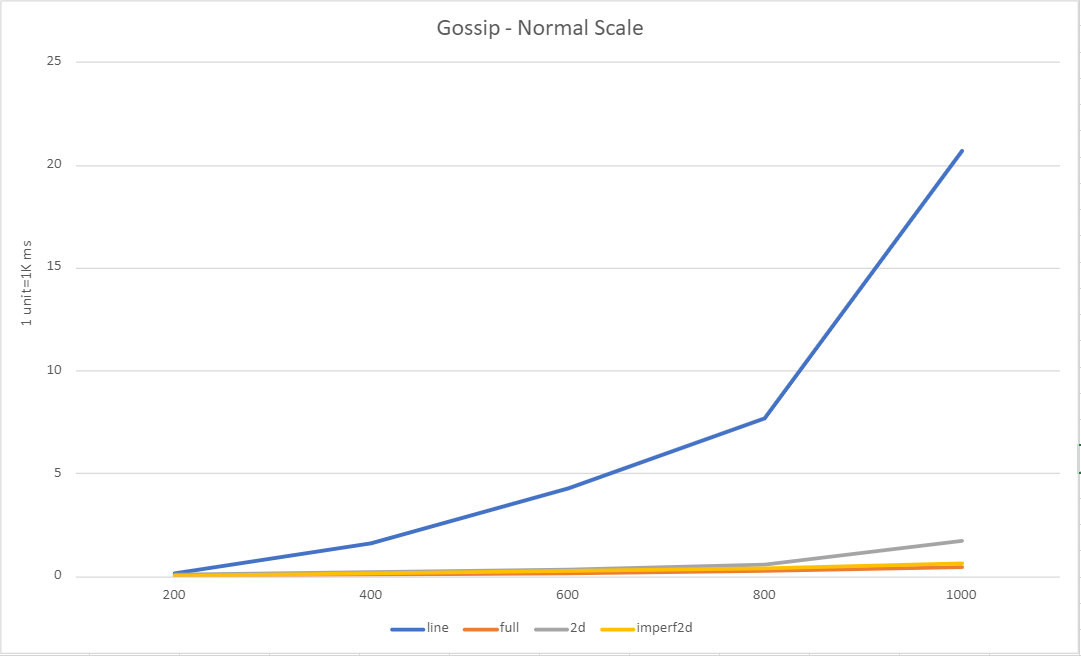
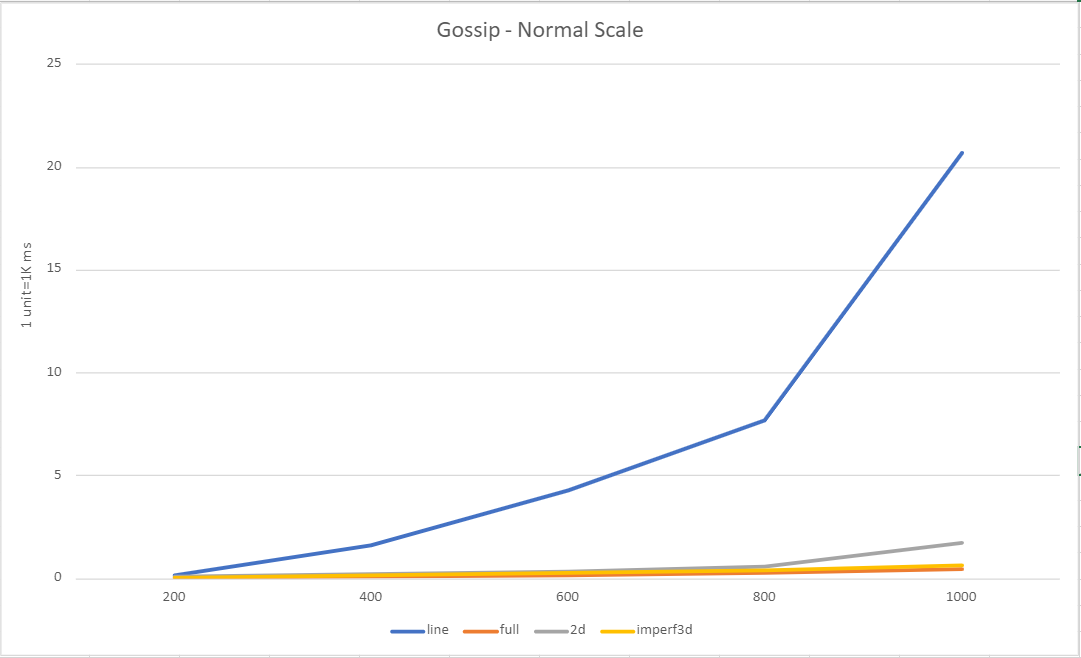
ref(general): Images added and readme corrected

diff --git a/README.md b/README.md
@@ -60,8 +60,8 @@ Push-Sum: The Push-Sum network works by sending message s and w as parameter to 
     <b>Observations</b>
     <li>Full topology is the fastest to converge and spread the rumor to all its notes.Full topology is connected to all its nodes and convergence is achieved in a very short time.</li>
     <li>Line topology takes the highest amount of time as it has access to only two neighbors ie., left and right node.</li>
-    <li>Imperfect 2D will achieve convergence relatively faster that line and 2D.</li>
-    <li>2D grip converges in between line and imperfect 2D grid as it has access to only its adjacent nodes</li>
+    <li>Imperfect 3D will achieve convergence relatively faster that line and 2D.</li>
+    <li>2D grip converges in between line and imperfect 3D grid as it has access to only its adjacent nodes</li>
 </ul>
 <i>Note: Push Sum can give 100% convergence as we try to reduce the value of s/w ratio till it stop changing for three times consecutively.</i>
 
@@ -130,7 +130,7 @@ Push-Sum:
         <td>3352343</td>
     </tr>
 </table>
-<img src="Gossip Normal Scale.PNG"/>
+<img src="Gossip Normal Scale.PNG"/>>
 <br/>
 <img src="Gossip Log Scale.PNG"/>
 <br/>
@@ -151,5 +151,25 @@ Line algorithm is the topology that takes highest amount of time because of the 
 </li>
 </ol>
 
+****
+
+## Execution Screenshots for 1000 Nodes
+
+<strong>Gossip: </strong>
+<br/>
+<br/>
+<img src="Gossip Line.PNG"/>
+<img src="Gossip TwoD.PNG"/>
+<img src="Gossip 3D.PNG"/>
+<img src="Gossip Full.PNG"/>
+<br/>
+<br/>
+<strong>Push Sum: </strong>
+<br/>
+<br/>
+<img src="Push Sum Line.PNG"/>
+<img src="Push Sum TwoD.PNG"/>
+<img src="Push Sum 3D.PNG"/>
+<img src="Push Sum Full.PNG"/>
 
 
